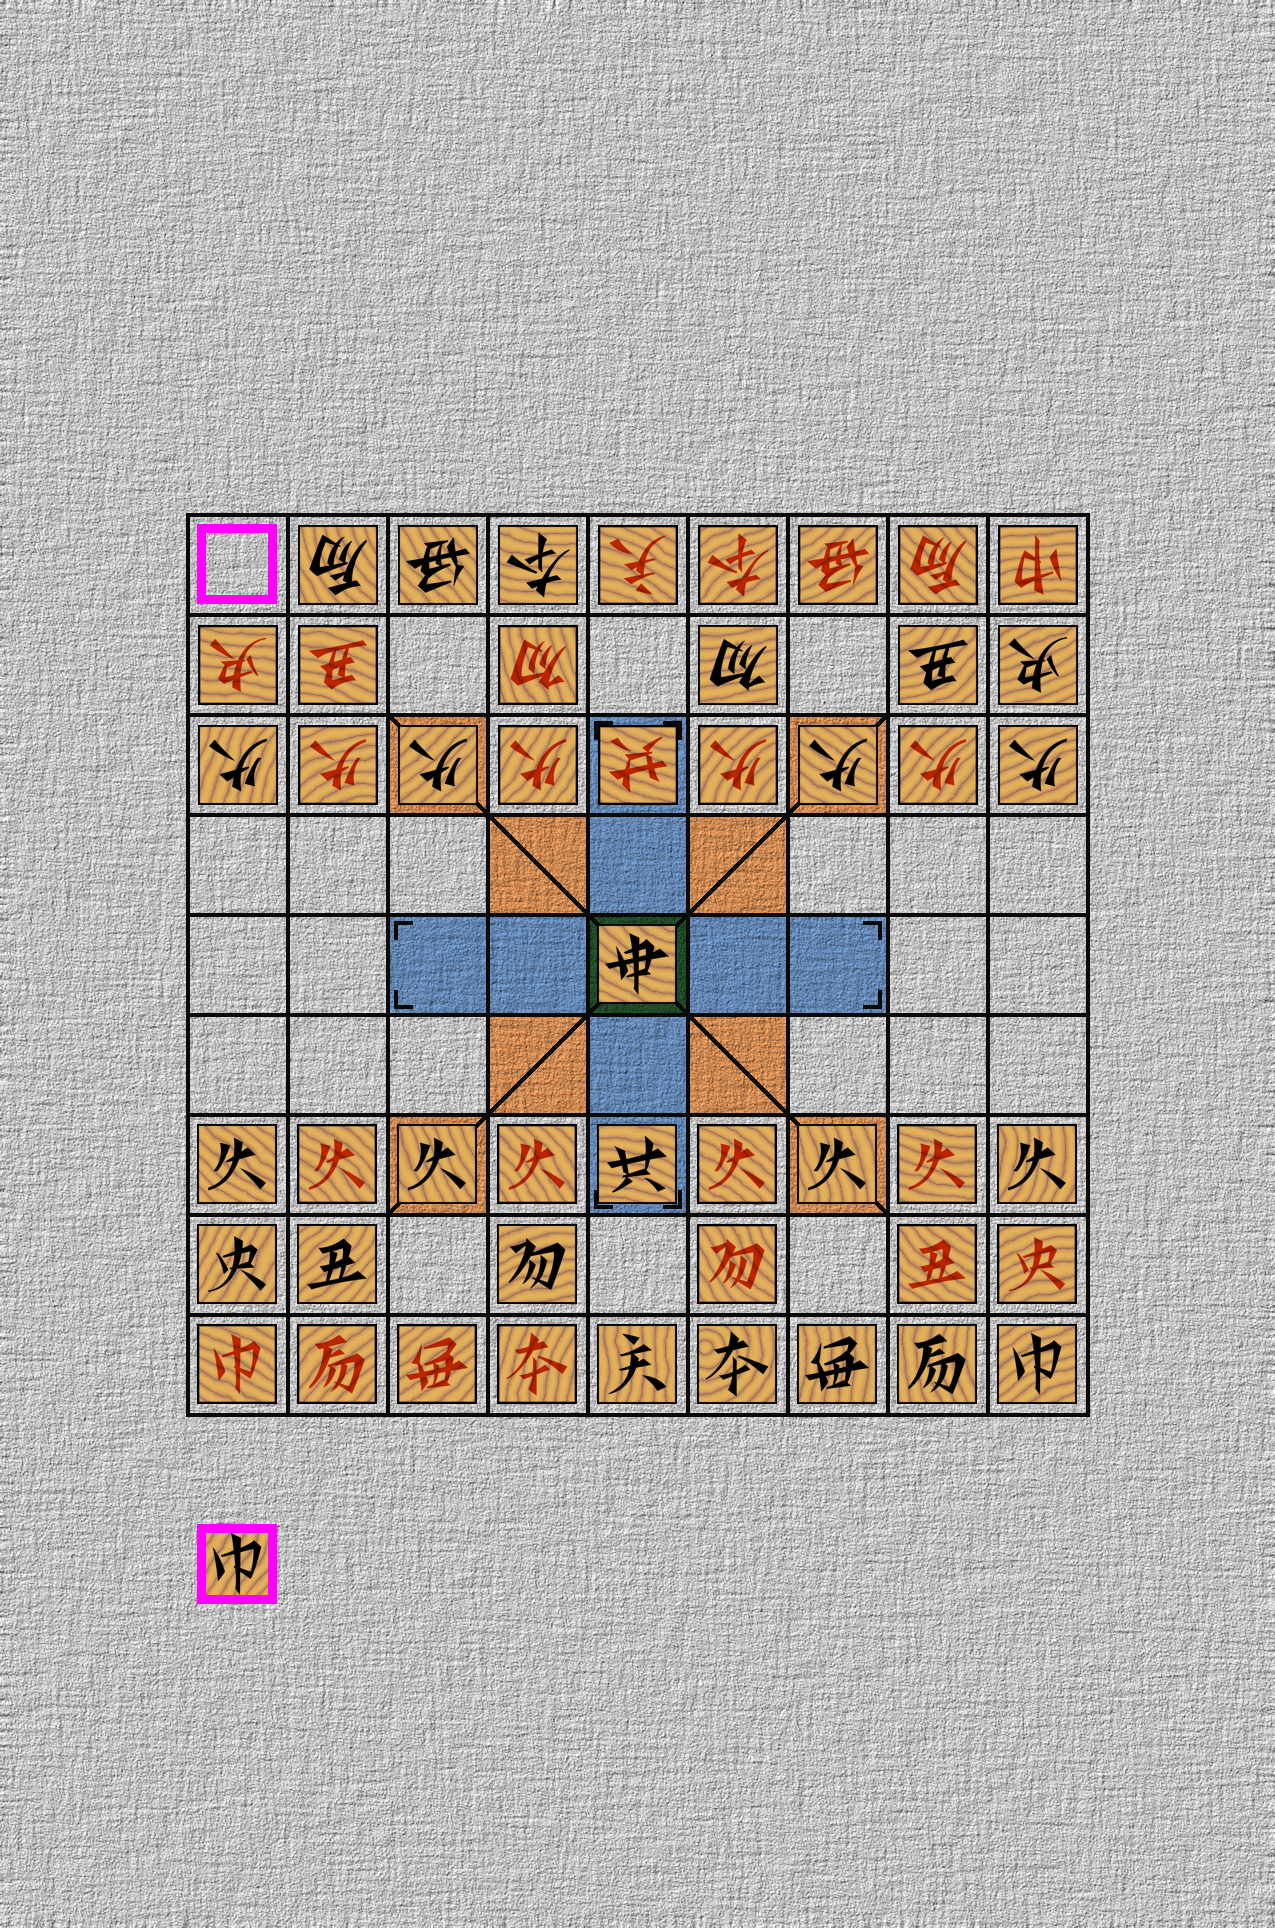
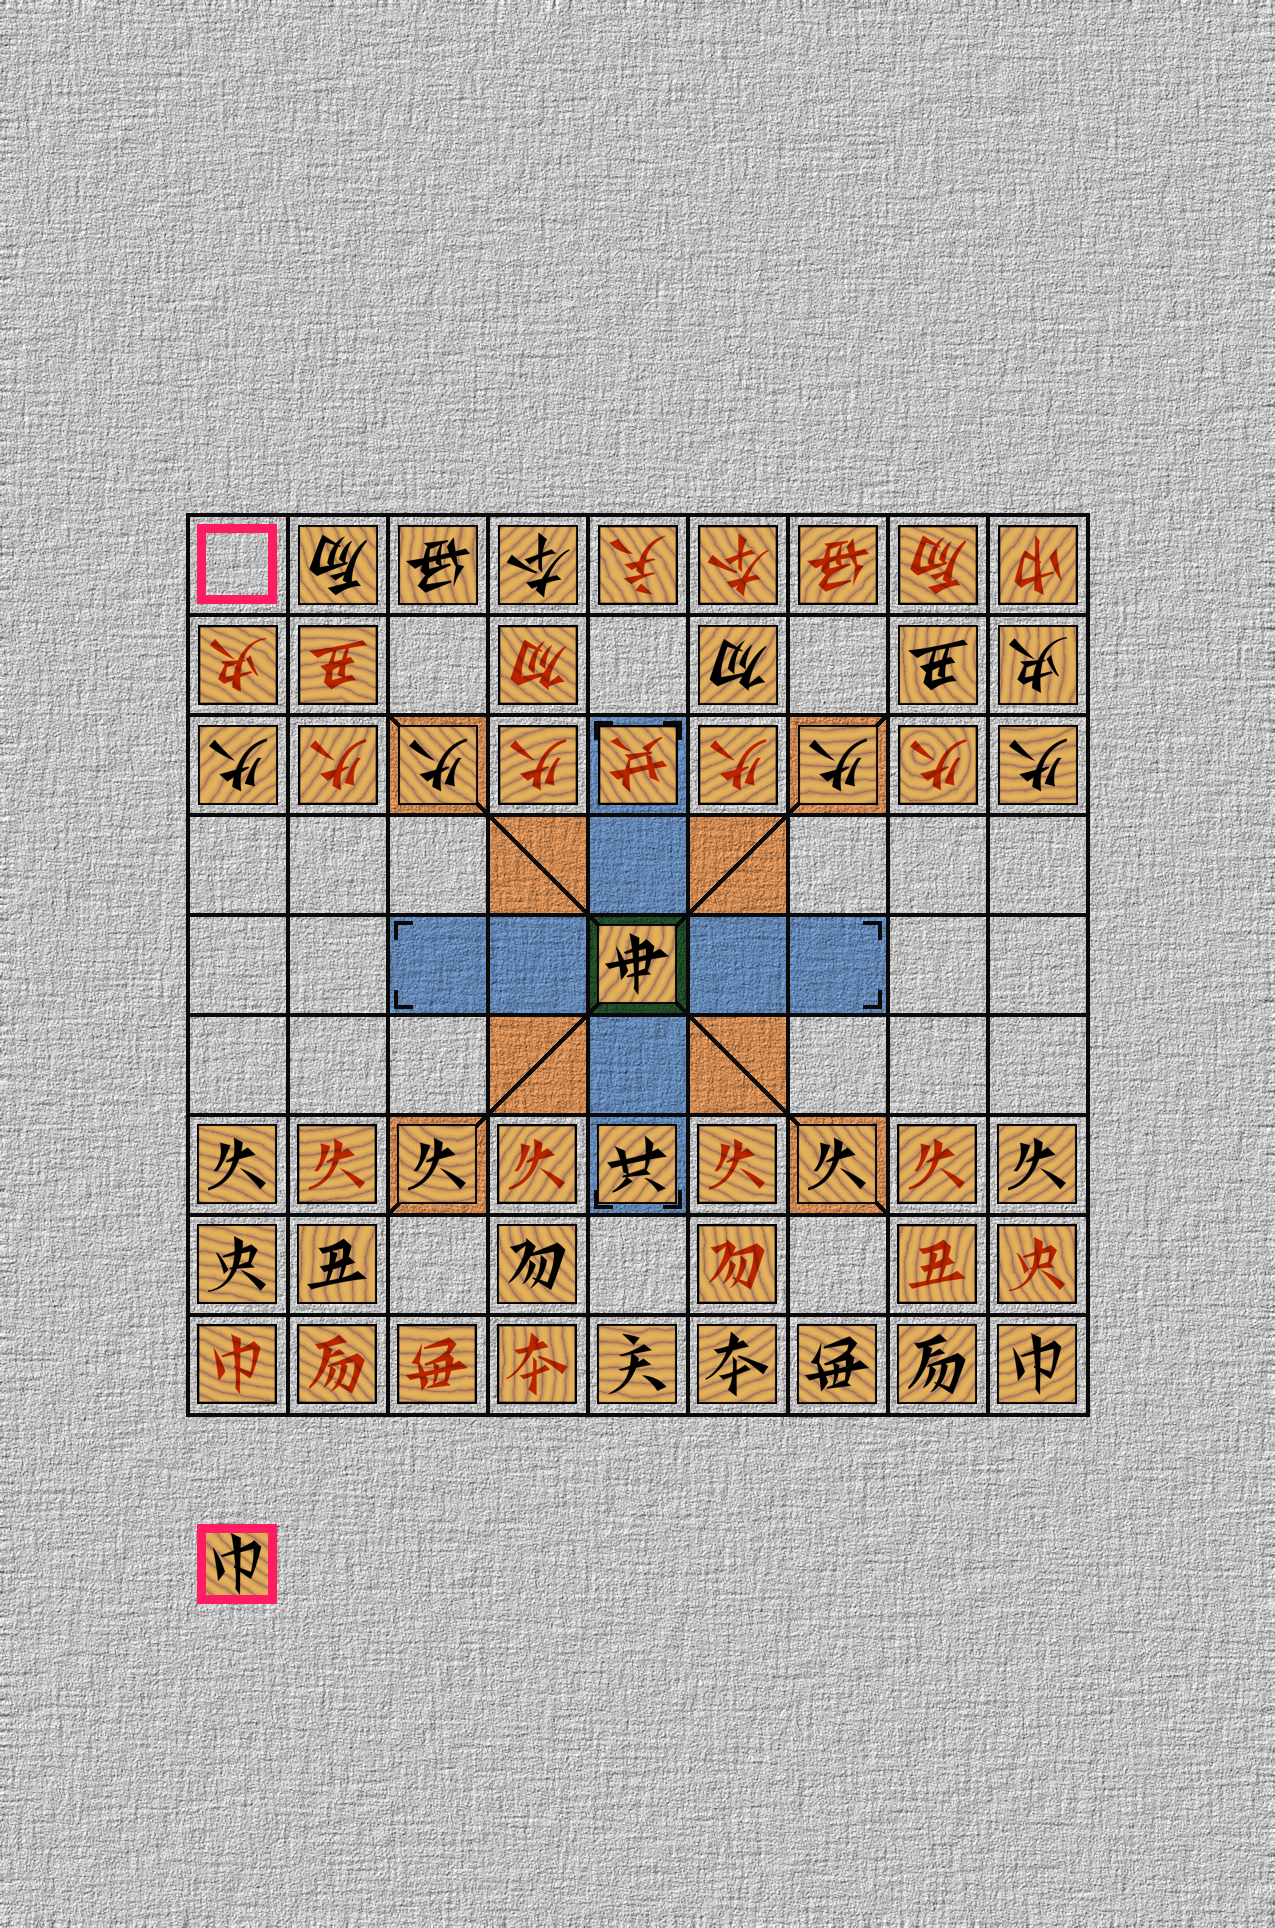
place border on floating, with reduced width

diff --git a/src/field/mod.rs b/src/field/mod.rs
@@ -222,16 +222,16 @@ fn get_vert_offset_from_coord(coord: Coord, down_side: Side) -> i32 {
 }
 
 impl Field {
-    fn put_border_on_sub_image(&self, sub_image: &mut image::SubImage<&mut image::RgbImage>){
+    fn put_border_on_sub_image(&self, sub_image: &mut image::SubImage<&mut image::RgbImage>, weight: u32){
         use crate::image::GenericImage;
         for x in 0..self.piece_dimension {
             for y in 0..self.piece_dimension {
-                if x < 9 /* FIXME: not scale invariant */
-                || y < 9
-                || x >= self.piece_dimension - 9
-                || y >= self.piece_dimension - 9
+                if x < weight /* FIXME: not scale invariant */
+                || y < weight
+                || x >= self.piece_dimension - weight
+                || y >= self.piece_dimension - weight
                 {
-                    sub_image.put_pixel(x, y, image::Rgb([255, 0, 255]));
+                    sub_image.put_pixel(x, y, image::Rgb([0xff, 0x1d, 0x62]));
                 }
             }
         }
@@ -431,7 +431,7 @@ impl Field {
                 }
 
                 if Some(i) == self.a_side_focus_index {
-                    self.put_border_on_sub_image(&mut sub_image);
+                    self.put_border_on_sub_image(&mut sub_image, 9);
                 }
 
                 i += 1;
@@ -461,7 +461,7 @@ impl Field {
                 );
 
                 if Some(i) == self.a_side_focus_index {
-                    self.put_border_on_sub_image(&mut sub_image);
+                    self.put_border_on_sub_image(&mut sub_image, 9);
                 }
             }
         }
@@ -507,7 +507,7 @@ impl Field {
                 }
 
                 if Some(i) == self.ia_side_focus_index {
-                    self.put_border_on_sub_image(&mut sub_image);
+                    self.put_border_on_sub_image(&mut sub_image, 9);
                 }
 
                 i += 1;
@@ -537,7 +537,7 @@ impl Field {
                 );
 
                 if Some(i) == self.ia_side_focus_index {
-                    self.put_border_on_sub_image(&mut sub_image);
+                    self.put_border_on_sub_image(&mut sub_image, 9);
                 }
             }
         }
@@ -575,16 +575,63 @@ impl Field {
         for (row, col) in self.focus.keys() {
             let horiz_offset = get_horiz_offset_from_coord((*row, *col), down_side);
             let vert_offset = get_vert_offset_from_coord((*row, *col), down_side);
-            let mut sub_image = background.sub_image(
-                ((width / 2 - self.piece_dimension / 2) as i32
-                    + self.square_dimension as i32 * horiz_offset) as u32,
-                ((height / 2 - self.piece_dimension / 2) as i32
-                    + self.square_dimension as i32 * vert_offset) as u32,
-                self.piece_dimension,
-                self.piece_dimension,
-            );
             if !self.focus[&(*row, *col)] /* not floating */ {
-                self.put_border_on_sub_image(&mut sub_image);
+                let mut sub_image = background.sub_image(
+                    ((width / 2 - self.piece_dimension / 2) as i32
+                        + self.square_dimension as i32 * horiz_offset) as u32,
+                    ((height / 2 - self.piece_dimension / 2) as i32
+                        + self.square_dimension as i32 * vert_offset) as u32,
+                    self.piece_dimension,
+                    self.piece_dimension,
+                );
+                self.put_border_on_sub_image(&mut sub_image, 9);
+            } else if let Some(((row2, col2), piece)) = &self.floating {
+                // if equal, handle later
+                if (row2, col2) != (&*row, &*col) {
+                    let mut sub_image = background.sub_image(
+                        ((width / 2 - self.piece_dimension / 2) as i32
+                            - (self.square_dimension as i32 - self.piece_dimension as i32) / 2
+                                * if piece.physical_side() == down_side {
+                                    1
+                                } else {
+                                    -1
+                                }
+                            + self.square_dimension as i32 * horiz_offset) as u32,
+                        ((height / 2 - self.piece_dimension / 2) as i32
+                            + (self.square_dimension as i32 - self.piece_dimension as i32) / 2
+                                * if piece.physical_side() == down_side {
+                                    1
+                                } else {
+                                    -1
+                                }
+                            + self.square_dimension as i32 * vert_offset) as u32,
+                        self.piece_dimension,
+                        self.piece_dimension,
+                    );
+                    self.put_border_on_sub_image(&mut sub_image, 6);
+                }
+            } else {
+                let mut sub_image = background.sub_image(
+                    ((width / 2 - self.piece_dimension / 2) as i32
+                        - (self.square_dimension as i32 - self.piece_dimension as i32) / 2
+                            * if Side::IASide == down_side { /* strictly speaking not accurate, but fine */
+                                1
+                            } else {
+                                -1
+                            }
+                        + self.square_dimension as i32 * horiz_offset) as u32,
+                    ((height / 2 - self.piece_dimension / 2) as i32
+                        + (self.square_dimension as i32 - self.piece_dimension as i32) / 2
+                            * if Side::IASide == down_side { /* strictly speaking not accurate, but fine */
+                                1
+                            } else {
+                                -1
+                            }
+                        + self.square_dimension as i32 * vert_offset) as u32,
+                    self.piece_dimension,
+                    self.piece_dimension,
+                );
+                self.put_border_on_sub_image(&mut sub_image, 6);
             }
         }
 
@@ -628,6 +675,10 @@ impl Field {
                     },
                     *pixel,
                 );
+            }
+
+            if self.focus.contains_key(&(*row, *col)) {
+                self.put_border_on_sub_image(&mut sub_image, 9);
             }
         }
 
